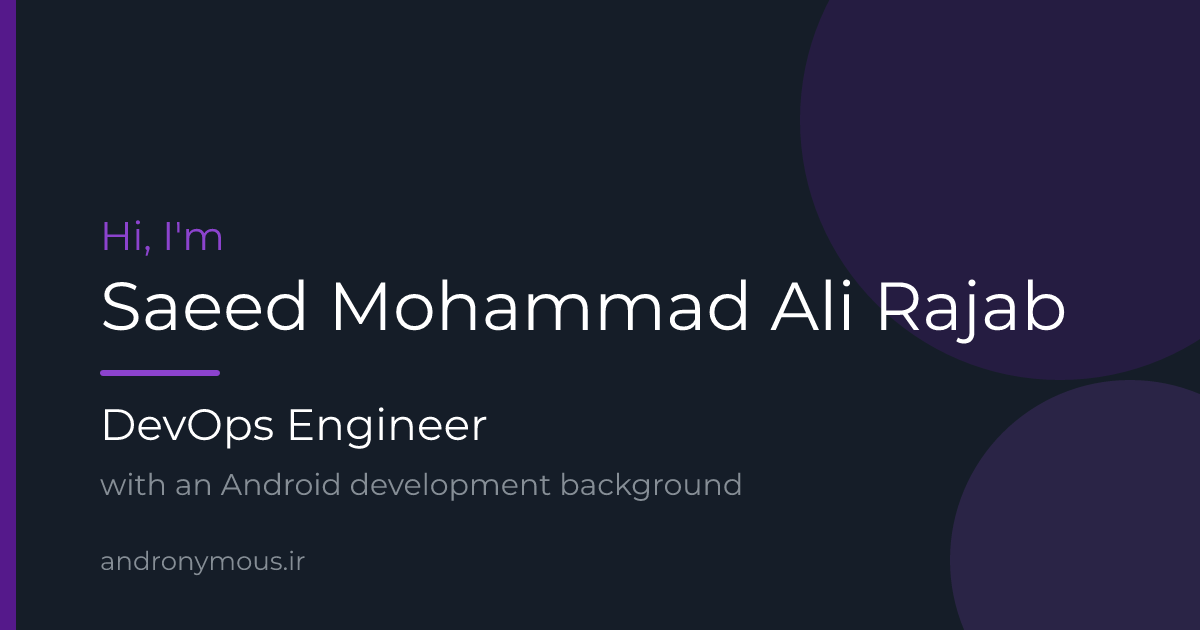
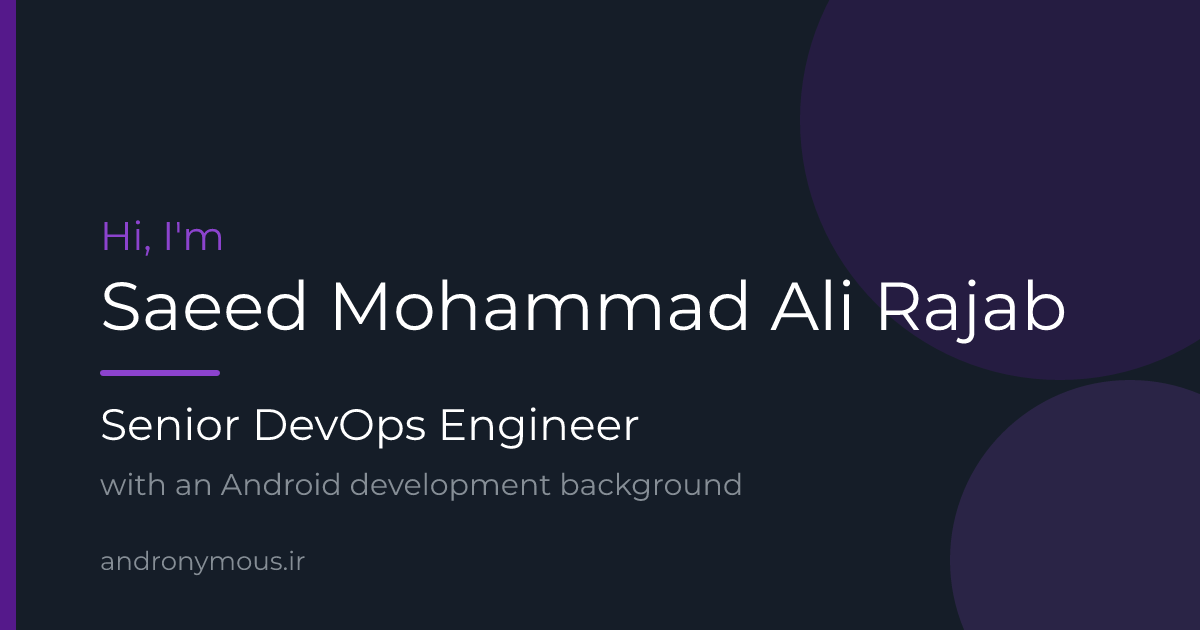
Use "Senior DevOps Engineer" in SEO text and the preview image

Changed region(s): [[0.0617, 0.6333, 0.5242, 0.7238]]

diff --git a/index.html b/index.html
@@ -5,28 +5,28 @@
     <meta name="viewport" content="width=device-width, initial-scale=1" />
 
     <!-- SEO -->
-    <title>Saeed Mohammad Ali Rajab | DevOps Engineer</title>
-    <meta name="title" content="Saeed Mohammad Ali Rajab | DevOps Engineer">
-    <meta name="description" content="Saeed Mohammad Ali Rajab is a DevOps engineer with an Android development background, working with Linux, Docker, Kubernetes, OpenShift, and CI/CD.">
+    <title>Saeed Mohammad Ali Rajab | Senior DevOps Engineer</title>
+    <meta name="title" content="Saeed Mohammad Ali Rajab | Senior DevOps Engineer">
+    <meta name="description" content="Saeed Mohammad Ali Rajab is a Senior DevOps Engineer with an Android development background, working with Linux, Docker, Kubernetes, OpenShift, and CI/CD.">
     <link rel="canonical" href="https://andronymous.ir/">
 
     <!-- Open Graph / Facebook -->
     <meta property="og:type" content="website">
     <meta property="og:url" content="https://andronymous.ir/">
-    <meta property="og:title" content="Saeed Mohammad Ali Rajab | DevOps Engineer">
-    <meta property="og:description" content="Saeed Mohammad Ali Rajab is a DevOps engineer with an Android development background, working with Linux, Docker, Kubernetes, OpenShift, and CI/CD.">
+    <meta property="og:title" content="Saeed Mohammad Ali Rajab | Senior DevOps Engineer">
+    <meta property="og:description" content="Saeed Mohammad Ali Rajab is a Senior DevOps Engineer with an Android development background, working with Linux, Docker, Kubernetes, OpenShift, and CI/CD.">
     <meta property="og:image" content="https://andronymous.ir/og-image.png">
     <meta property="og:image:width" content="1200">
     <meta property="og:image:height" content="630">
-    <meta property="og:image:alt" content="Saeed Mohammad Ali Rajab, DevOps Engineer">
+    <meta property="og:image:alt" content="Saeed Mohammad Ali Rajab, Senior DevOps Engineer">
 
     <!-- Twitter -->
     <meta name="twitter:card" content="summary_large_image">
     <meta name="twitter:url" content="https://andronymous.ir/">
-    <meta name="twitter:title" content="Saeed Mohammad Ali Rajab | DevOps Engineer">
-    <meta name="twitter:description" content="Saeed Mohammad Ali Rajab is a DevOps engineer with an Android development background, working with Linux, Docker, Kubernetes, OpenShift, and CI/CD.">
+    <meta name="twitter:title" content="Saeed Mohammad Ali Rajab | Senior DevOps Engineer">
+    <meta name="twitter:description" content="Saeed Mohammad Ali Rajab is a Senior DevOps Engineer with an Android development background, working with Linux, Docker, Kubernetes, OpenShift, and CI/CD.">
     <meta name="twitter:image" content="https://andronymous.ir/og-image.png">
-    <meta name="twitter:image:alt" content="Saeed Mohammad Ali Rajab, DevOps Engineer">
+    <meta name="twitter:image:alt" content="Saeed Mohammad Ali Rajab, Senior DevOps Engineer">
 
     <meta name="msapplication-TileColor" content="#603cba">
     <meta name="theme-color" content="#6c63ff" />
